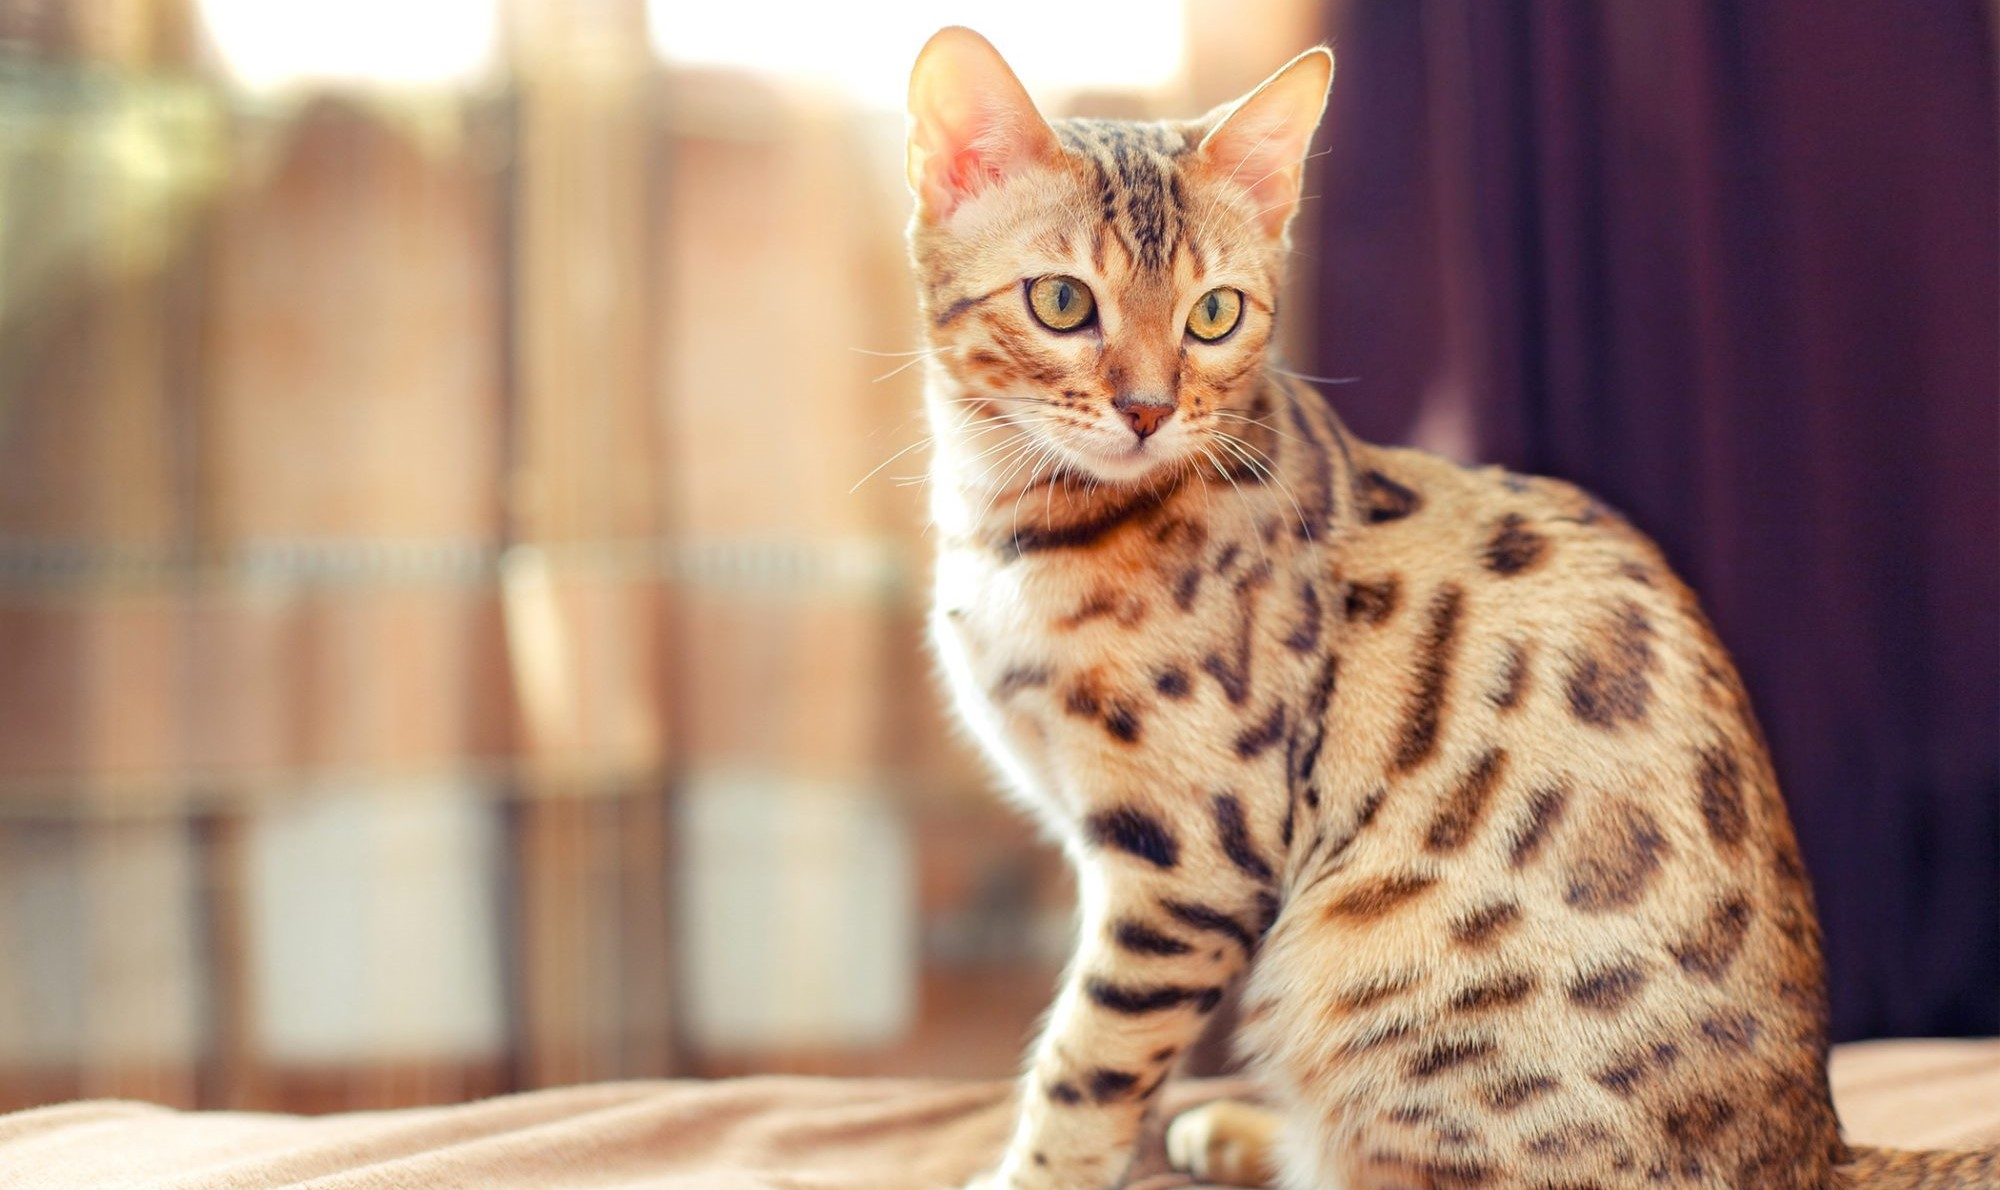
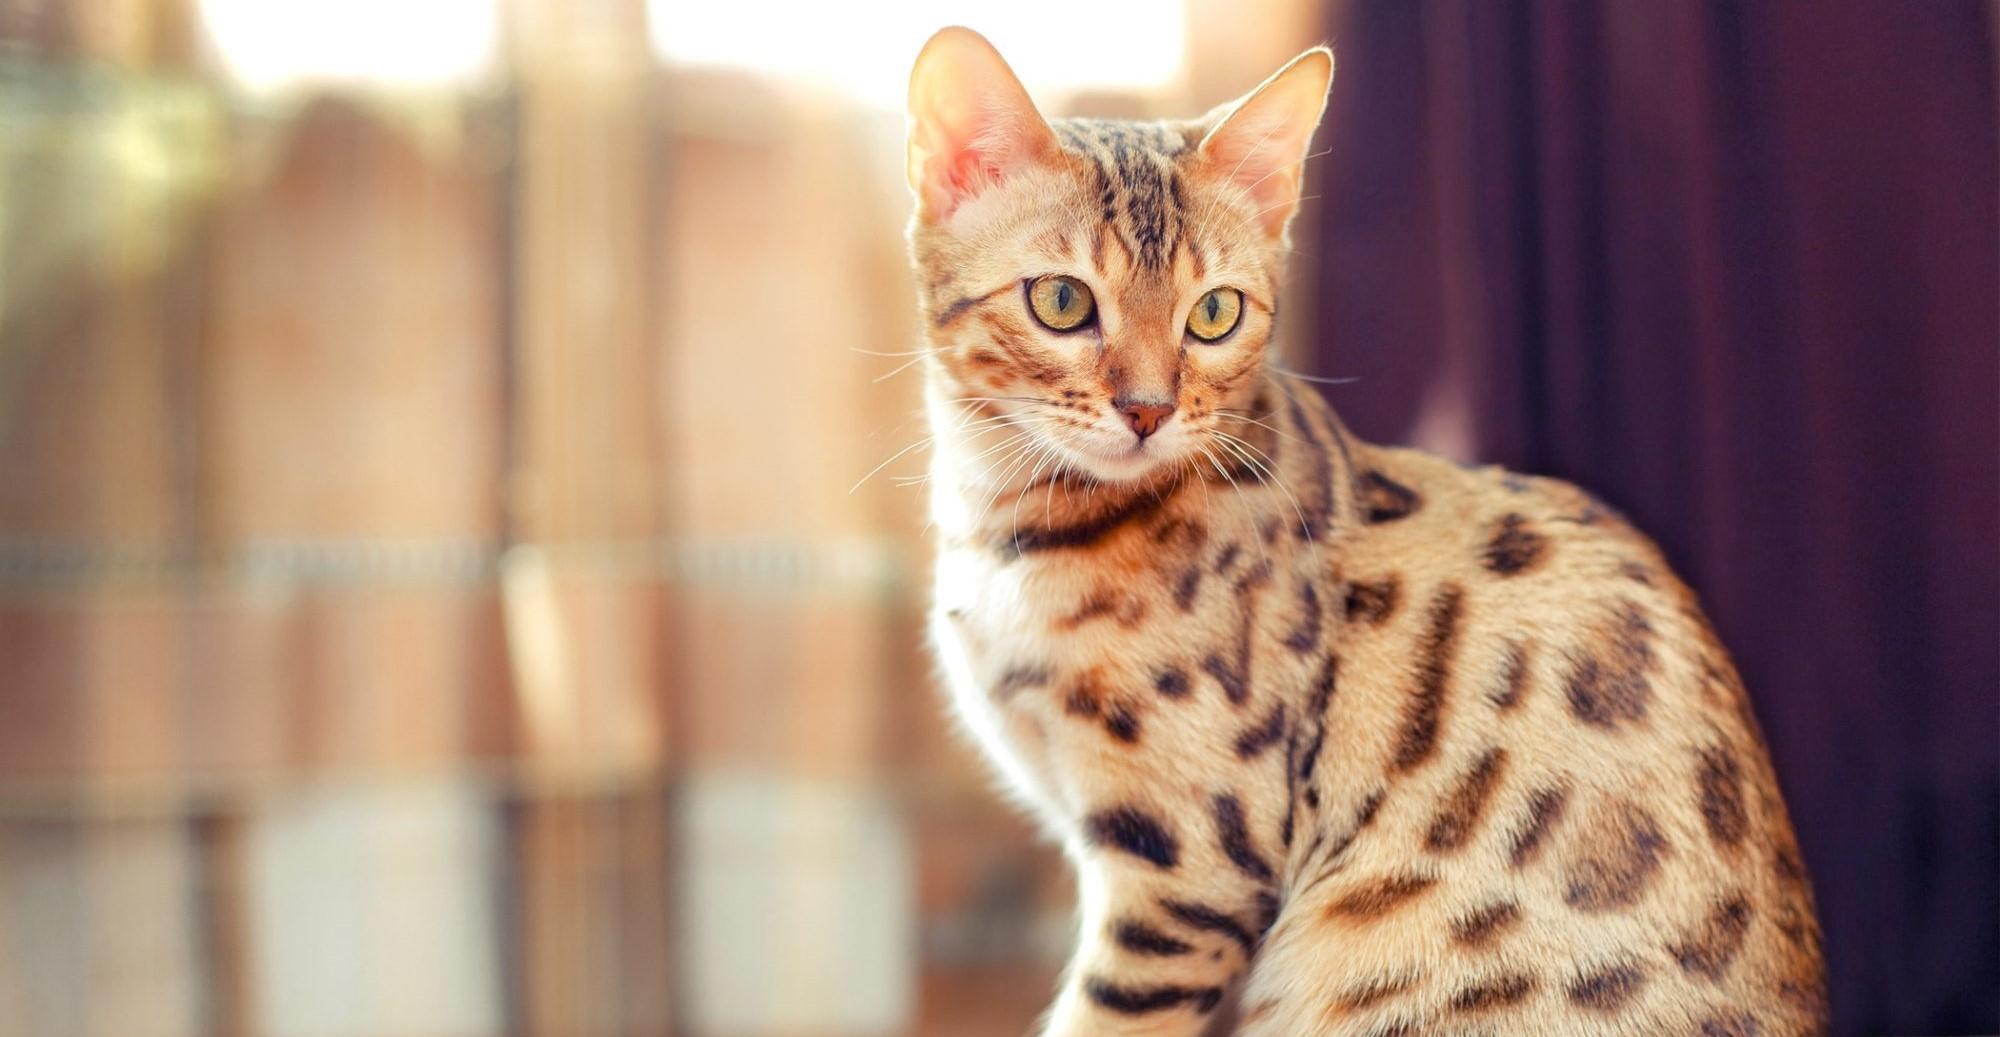
Updated OwnersInfo header.

diff --git a/client/src/pages/OwnersInfo.tsx b/client/src/pages/OwnersInfo.tsx
@@ -1,26 +1,32 @@
-import React, {useState} from 'react';
+//import React, {useState} from 'react';
+import React from 'react';
 import OwnersInfoCSS from "./styles/OwnersInfo.module.css";
 import WebNavHeader from "../components/WebNavHeader";
 
 /*******************************Owner's Info***************************** Note: A link on line 15 for pro-recomm*/
 /**/
 
-const OwnersInfo: React.FC = () => {
-  const fontSizeHeader = {fontSize: "50px"}
+/*const OwnersInfo: React.FC = () => {
+  const fontSizeHeader = {fontSize: "50px"}*/
 
+const OwnersInfo = () => {
   return (
-    <div className = {OwnersInfoCSS.ownersInfoPage}>
+    <div className = {OwnersInfoCSS.backgroundLayer}>
       <WebNavHeader/>
-      <img className={OwnersInfoCSS.img1} alt='headerImage' src={require("../images/bencat - OwnersInfo header.jpg")}/>
+
+      {/*<img className={OwnersInfoCSS.img1} alt='headerImage' src={require("../images/bencat - OwnersInfo header image.jpg")}/>
       <div className={OwnersInfoCSS.headerContainerOwnersInfo} style={fontSizeHeader}>
-        <h1> Owner's Info </h1>
-      </div>
+       <h1> Owner's Info </h1>
+      </div>*/}
+
+      <OwnersInfoPageHeader/>
+
       <div className={OwnersInfoCSS.backgroundLayer}> 
         <div className={OwnersInfoCSS.headerContainerProducts}>
           <h1 className={OwnersInfoCSS.bold}> Products We Recommend </h1>
-          <h3>____________________________________________________________________________________________</h3>
-          <h3> Below is a list of/link to products we recommend for your kitten.</h3>
-          <h3> From toys, treats, catteries?, bedding, and training accessories? </h3>
+          <h3>___________________________________________________________________________________________________________________</h3>
+          <h3> Below is a list of/link to products we recommend for your kitten. From toys, treats, catteries?, bedding, and training accessories? </h3>
+          {/*<h3> From toys, treats, catteries?, bedding, and training accessories? </h3>*/}
           <h2> o==o  Link/List  o==o </h2>
         </div>
 
@@ -28,5 +34,19 @@ const OwnersInfo: React.FC = () => {
     </div>
   )
 }
+
+const OwnersInfoPageHeader = () => {
+
+  return (
+    <div className={OwnersInfoCSS.headerOwnersInfoImg}>
+      <img alt="headerImage" src={require("../images/bencat - OwnersInfo header image.jpg")} />
+        
+      <div className={OwnersInfoCSS.headerOwnersInfo}>
+        <h1> Owner's Info </h1>
+        {/*<h1> Info </h1>*/}
+      </div>
+    </div>
+  )
+}
   
-  export default OwnersInfo;
+export default OwnersInfo;

diff --git a/client/src/pages/styles/OwnersInfo.module.css b/client/src/pages/styles/OwnersInfo.module.css
@@ -7,6 +7,8 @@
   src: url("../../fonts/Lancelot-Regular.ttf");
 }
 
+/***************************************************************************/
+
 .ownersInfoPage {
   background-color: #a87d48f5;
 }
@@ -50,6 +52,45 @@
   border-radius: 40px;
 }
 
+.headerContainerOwnersInfo {
+  background-image: url("../../images/bencat.jpg");
+  background-size: cover;
+  background-position: center center;
+  text-align: left;
+  color: white;
+  font-family: inika;
+  top: 150px;
+  height: 700px;
+  vertical-align: text-top;
+  padding-top: 50px;
+  padding-left: 23%;
+  padding-right: 23%;
+  border-style: solid;
+  border-top: 0;
+  border-left: 0;
+  border-right: 0;
+  border-color: black;
+}
+
 .bold{
-  text-decoration: bold;
+  font: bold;
+  font-size: 3rem
+}
+
+.headerOwnersInfoImg {
+  width: 100%;
+  height: auto;
+  position: relative;
+  background-color: rgba(160, 119, 81, 0.94);
+}
+
+.headerOwnersInfo {
+  width: 100%;
+  position: absolute;
+  bottom: 8.5rem;
+  margin-left: 1.5rem;
+  text-align: left;
+  font-family: inika;
+  font-size: 3vw;
+  color:#4E3A24;
 }

diff --git a/client/src/components/styles/WebNavHeader.module.css b/client/src/components/styles/WebNavHeader.module.css
@@ -90,7 +90,7 @@
 
 .link {
   font-family: inika;
-  font-size: 1.4rem;
+  font-size: 1.3rem;
   color: white;
 }
 
